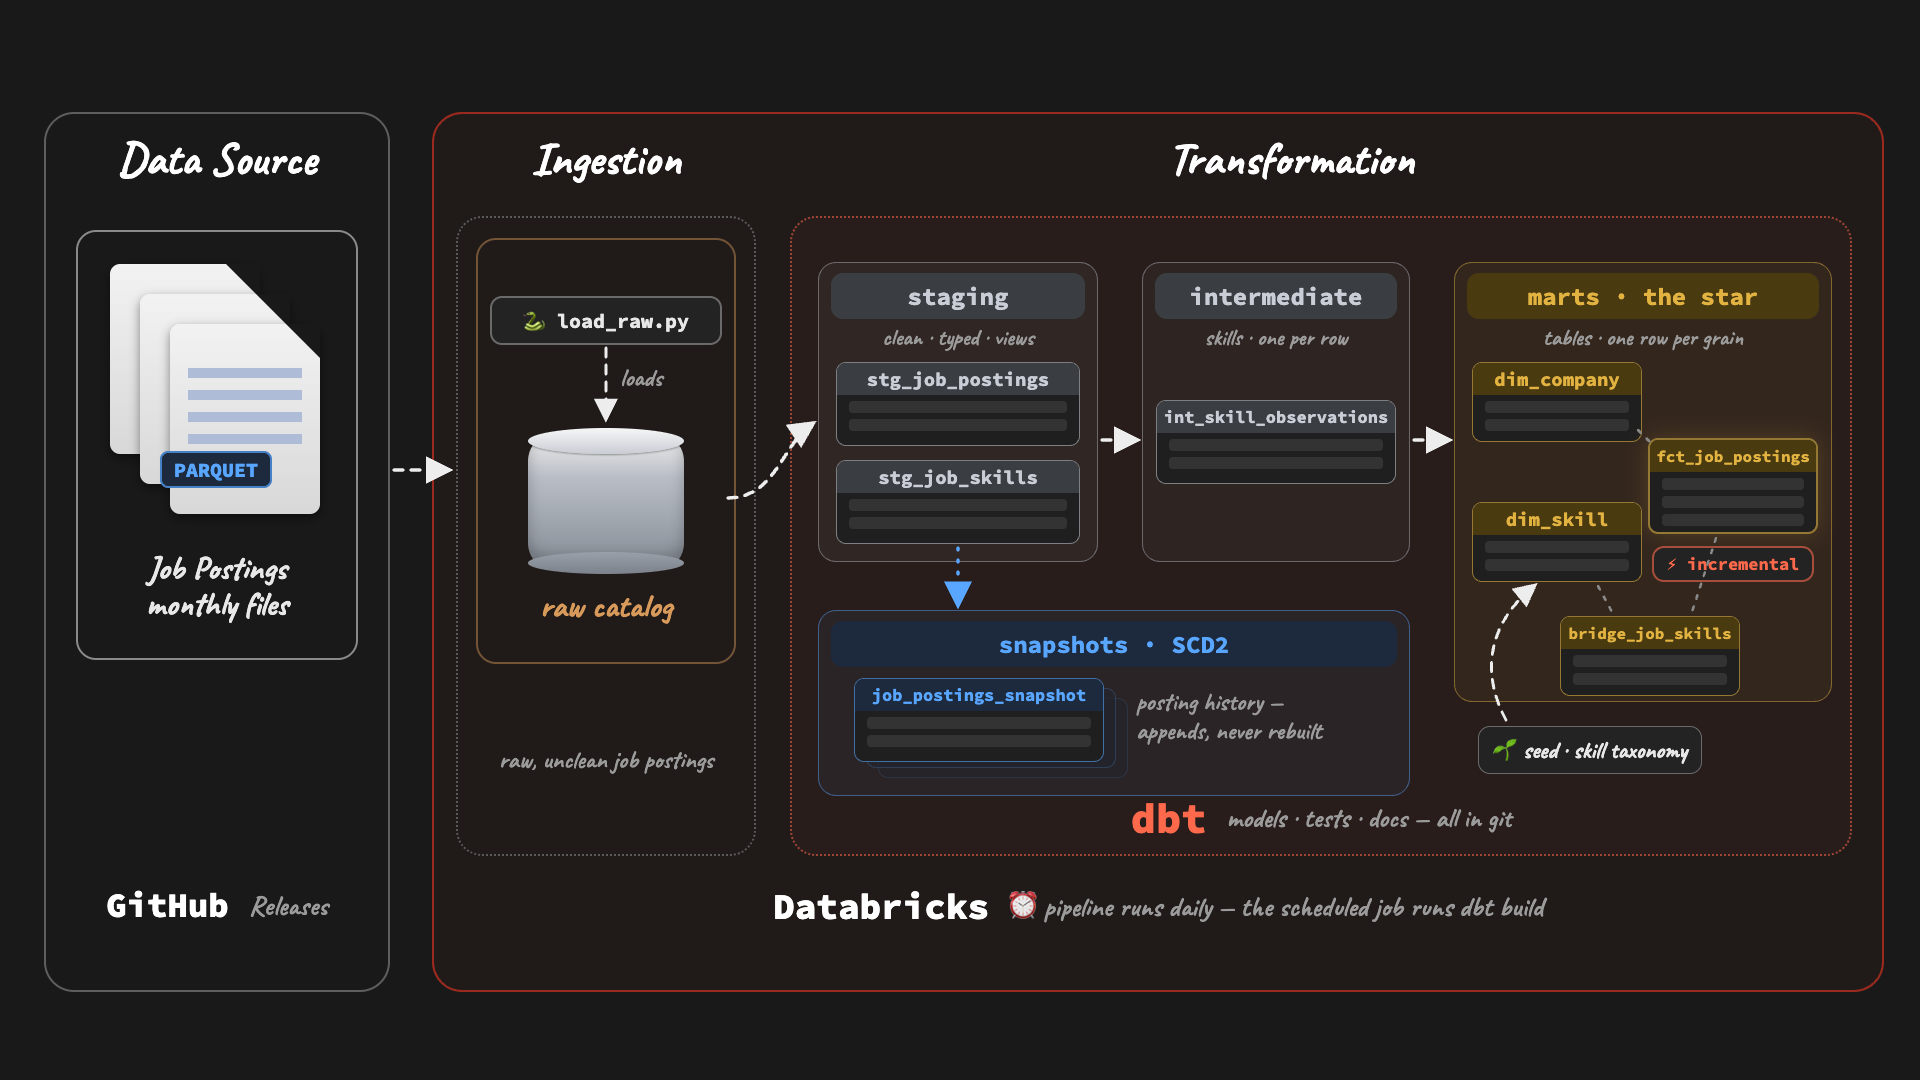
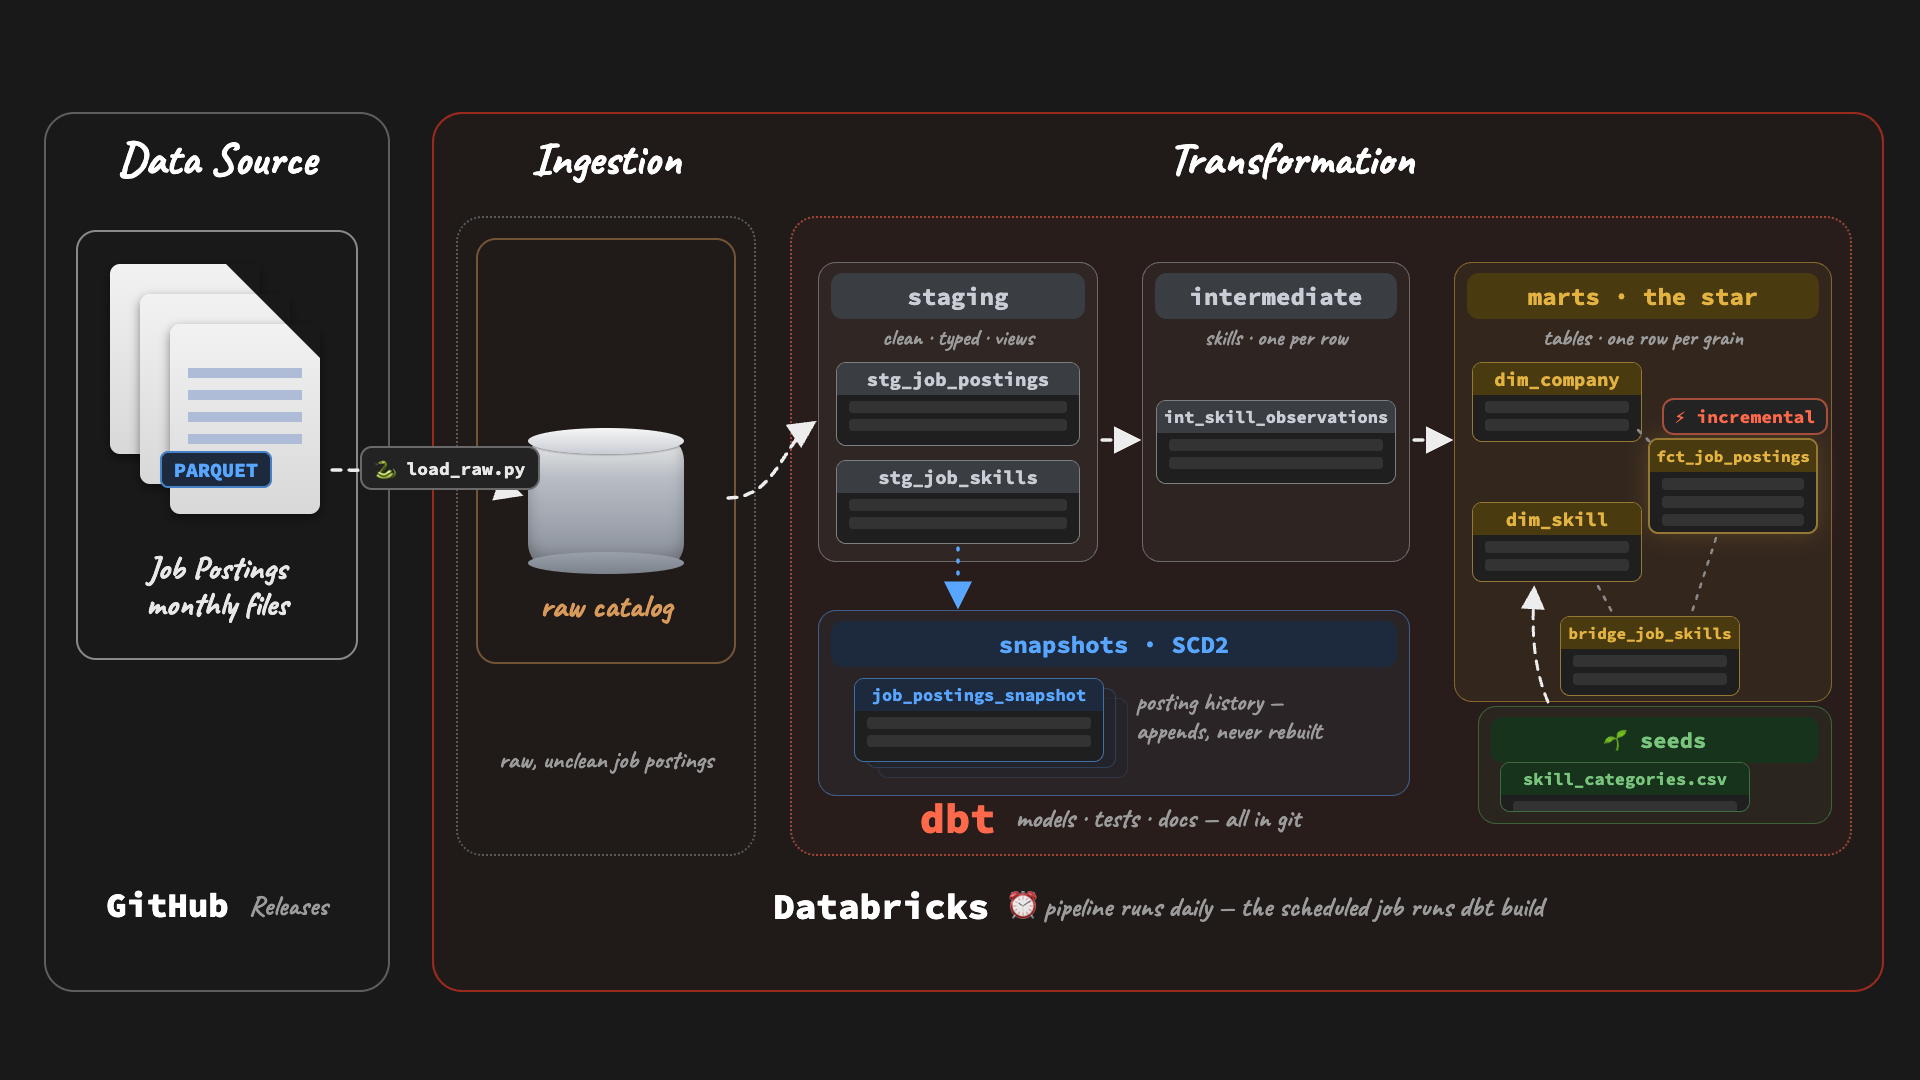
P2 pipeline v6 (Luke): load_raw.py rides the parquet→raw arrow (node-on-edge); ⚡ incremental badge above fct, clear of join dashes; seeds = green mini tier box (skill_categories.csv glyph) mirroring snapshots

diff --git a/resources/diagrams/4.02_p2_pipeline.html b/resources/diagrams/4.02_p2_pipeline.html
@@ -56,6 +56,7 @@
   .tbl.gold{border:1.5px solid rgba(227,179,65,.6)} .tbl.gold .name{background:var(--goldB);color:var(--goldT)}
   .tbl.fct{border-width:2.5px;box-shadow:0 0 22px rgba(227,179,65,.18)}
   .tbl.snap{border:1.5px solid rgba(88,166,255,.6)} .tbl.snap .name{background:#1d2a3d;color:var(--blue)}
+  .tbl.seedt{border:1.5px solid rgba(87,171,90,.55)} .tbl.seedt .name{background:#17331c;color:#7ac57e}
   .ghosttbl{position:absolute;box-sizing:border-box;border-radius:10px;border:1.5px solid rgba(88,166,255,.35);background:#20242c}
   .seed{position:absolute;box-sizing:border-box;border-radius:12px;padding:7px 14px;background:#232323;text-align:center;
     border:1.5px solid #6a6a6a;font-family:var(--hand);font-size:24px;font-weight:700;color:var(--text)}
@@ -93,11 +94,10 @@
   <div class="ztitle" style="left:456px;top:130px;width:300px">Ingestion</div>
   <div class="zouter" style="left:456px;top:216px;width:300px;height:640px"></div>
   <div class="zinner" style="left:476px;top:238px;width:260px;height:426px;border-color:rgba(216,154,91,.45)"></div>
-  <div class="chip code" style="left:490px;top:296px;width:232px">🐍 load_raw.py</div>
+  <div class="chip code" style="left:360px;top:446px;width:180px;font-size:18px;padding:6px 10px;z-index:3;position:absolute">🐍 load_raw.py</div>
   <div class="cyl" style="left:528px;top:428px;width:156px;height:146px">
     <div class="body"></div><div class="top"></div><div class="bot"></div>
   </div>
-  <div class="hcap" style="left:620px;top:364px;width:120px;text-align:left">loads</div>
   <div class="hlbl" style="left:476px;top:588px;width:260px;color:var(--bronzeT)">raw catalog</div>
   <div class="hcap" style="left:456px;top:746px;width:300px">raw, unclean job postings</div>
 
@@ -121,7 +121,10 @@
   <div class="tbl silver" style="left:1156px;top:400px;width:240px;height:84px"><div class="name" style="font-size:17px">int_skill_observations</div><div class="r"></div><div class="r"></div></div>
 
   <!-- seed: its own input, NOT a mart -->
-  <div class="seed" style="left:1478px;top:726px;width:224px">🌱 seed · skill taxonomy</div>
+  <div class="tier" style="left:1478px;top:706px;width:354px;height:118px;background:rgba(87,171,90,.05);border:1.5px solid rgba(87,171,90,.45)">
+    <div class="hdr" style="background:#17331c;color:#7ac57e;font-size:22px">🌱 seeds</div>
+  </div>
+  <div class="tbl seedt" style="left:1500px;top:762px;width:250px;height:50px"><div class="name" style="font-size:17px">skill_categories.csv</div><div class="r"></div></div>
 
   <!-- gold: marts (the star) -->
   <div class="tier" style="left:1454px;top:262px;width:378px;height:440px;background:rgba(227,179,65,.06);border:1.5px solid rgba(227,179,65,.45)">
@@ -130,7 +133,7 @@
   </div>
   <div class="tbl gold" style="left:1472px;top:362px;width:170px;height:80px"><div class="name">dim_company</div><div class="r"></div><div class="r"></div></div>
   <div class="tbl gold fct" style="left:1648px;top:438px;width:170px;height:96px"><div class="name" style="font-size:16px">fct_job_postings</div><div class="r"></div><div class="r"></div><div class="r"></div></div>
-  <div class="chip code" style="left:1652px;top:546px;width:162px;font-size:17px;padding:5px 10px;border-color:rgba(255,105,75,.6);color:var(--dbt)">⚡ incremental</div>
+  <div class="chip code" style="left:1662px;top:398px;width:166px;font-size:18px;padding:5px 10px;border-color:rgba(255,105,75,.6);color:var(--dbt)">⚡ incremental</div>
   <div class="tbl gold" style="left:1472px;top:502px;width:170px;height:80px"><div class="name">dim_skill</div><div class="r"></div><div class="r"></div></div>
   <div class="tbl gold" style="left:1560px;top:616px;width:180px;height:80px"><div class="name" style="font-size:16px">bridge_job_skills</div><div class="r"></div><div class="r"></div></div>
 
@@ -143,7 +146,7 @@
   <div class="tbl snap" style="left:854px;top:678px;width:250px;height:84px"><div class="name" style="font-size:17px">job_postings_snapshot</div><div class="r"></div><div class="r"></div></div>
   <div class="hcap" style="left:1136px;top:688px;width:260px;text-align:left">posting history —<br>appends, never rebuilt</div>
 
-  <div class="lockrow" style="left:790px;top:792px;width:1062px">
+  <div class="lockrow" style="left:790px;top:792px;width:640px">
     <span style="font-family:var(--mono);font-weight:800;font-size:42px;color:var(--dbt)">dbt</span>
     <span style="font-family:var(--hand);font-weight:600;font-size:27px;color:var(--muted)">models · tests · docs — all in git</span>
   </div>
@@ -164,10 +167,8 @@
         <path d="M 0 0 L 10 5 L 0 10 z" fill="#58A6FF"/>
       </marker>
     </defs>
-    <!-- notebook loads the raw catalog -->
-    <path d="M 606 348 L 606 418" fill="none" stroke="#EDEDED" stroke-width="3" stroke-dasharray="9 8" stroke-linecap="round" marker-end="url(#ahw)"/>
-    <!-- source → ingestion -->
-    <path d="M 394 470 L 448 470" fill="none" stroke="#EDEDED" stroke-width="3.5" stroke-dasharray="9 8" stroke-linecap="round" marker-end="url(#ahw)"/>
+    <!-- source → raw catalog, loaded by the script riding the arrow -->
+    <path d="M 332 470 C 420 470, 468 478, 518 494" fill="none" stroke="#EDEDED" stroke-width="3.5" stroke-dasharray="9 8" stroke-linecap="round" marker-end="url(#ahw)"/>
     <!-- raw → staging -->
     <path d="M 728 498 C 776 498, 782 444, 812 424" fill="none" stroke="#EDEDED" stroke-width="3.5" stroke-dasharray="9 8" stroke-linecap="round" marker-end="url(#ahw)"/>
     <!-- staging → intermediate -->
@@ -175,7 +176,7 @@
     <!-- intermediate → marts -->
     <path d="M 1414 440 L 1448 440" fill="none" stroke="#EDEDED" stroke-width="3.5" stroke-dasharray="9 8" stroke-linecap="round" marker-end="url(#ahw)"/>
     <!-- seed → dim_skill (enters the marts box) -->
-    <path d="M 1506 720 C 1478 668, 1492 620, 1534 586" fill="none" stroke="#EDEDED" stroke-width="3" stroke-dasharray="9 8" stroke-linecap="round" marker-end="url(#ahw)"/>
+    <path d="M 1548 702 C 1532 664, 1532 626, 1534 590" fill="none" stroke="#EDEDED" stroke-width="3" stroke-dasharray="9 8" stroke-linecap="round" marker-end="url(#ahw)"/>
     <!-- staging → snapshots (blue: the history path) -->
     <path d="M 958 548 L 958 604" fill="none" stroke="#58A6FF" stroke-width="3.5" stroke-dasharray="2 10" stroke-linecap="round" marker-end="url(#ahb)"/>
     <!-- star joins: fct↔dim_company · fct↔bridge · bridge↔dim_skill -->
